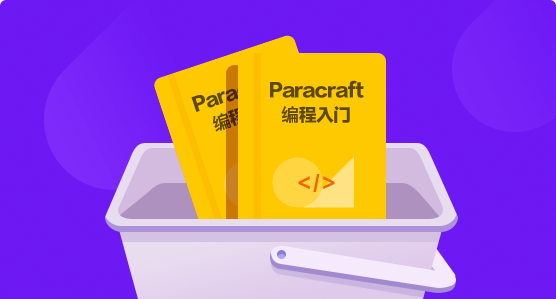
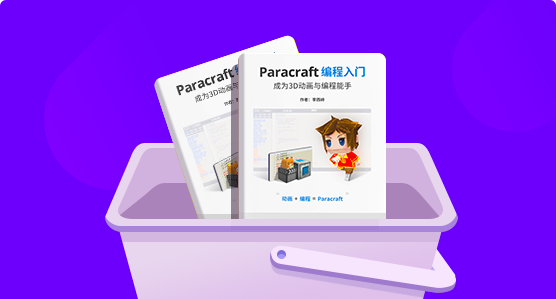
fix study page text and image

diff --git a/app/web/components/study/Study.vue b/app/web/components/study/Study.vue
@@ -4,7 +4,7 @@
       <div class="study-home-region-banner-center">
         <div class="study-home-region-banner-center-img"><img src="@/assets/study/title.png" alt=""></div>
         <div class="study-home-region-banner-center-desc">
-          <p class="study-home-region-banner-center-desc-text">你是初学者？还是希望提升编程技能？<br>Keepwork为各个阶段、水平的学习者提供了多种多样的学习资源，从免费的教程到现场培训。</p>
+          <p class="study-home-region-banner-center-desc-text">你是动画爱好者？还是希望提升编程技能？<br>keepwork为各个阶段、水平的3D动画与编程学习者提供了多种多样的学习资源，从免费的教程到现场培训。</p>
         </div>
         <div class="study-home-region-banner-center-go"><span class="study-home-region-banner-center-go-text">从中选择适合你的学习内容吧！</span></div>
       </div>
@@ -63,7 +63,7 @@ export default {
         },
         {
           imgUrl: require('@/assets/study/teaching.png'),
-          title: '教师和学生',
+          title: '学校和培训机构',
           text_1: '赋予学生创造力',
           text_2: '为学校、培训机构提供优惠的教学资源。',
           moreLink: 'https://biz.keepwork.com/'
